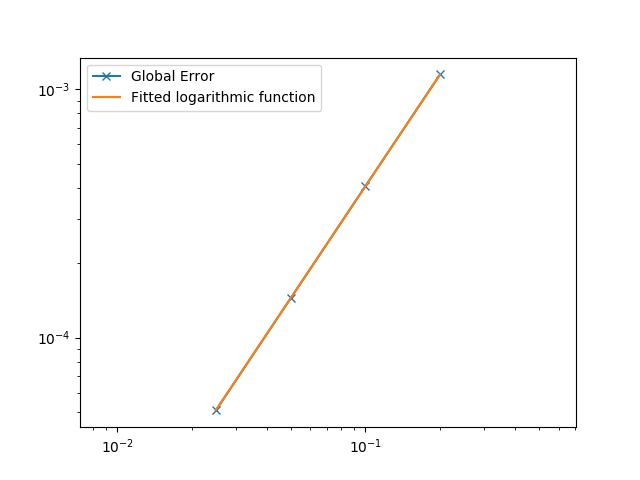
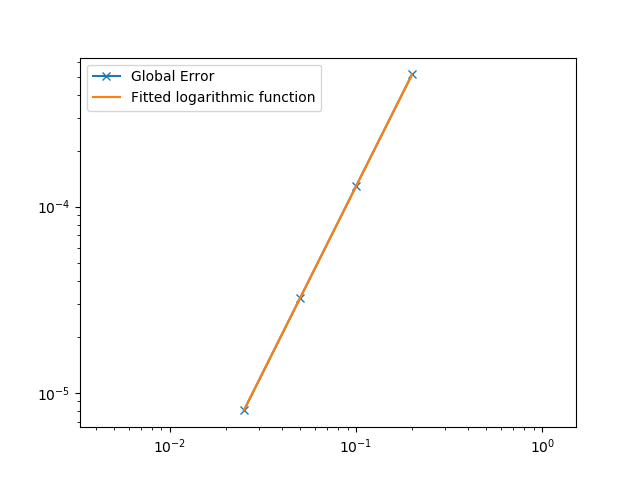
changes

diff --git a/Q1/Numerical/PDF/report.tex b/Q1/Numerical/PDF/report.tex
@@ -7,11 +7,13 @@
 \usepackage{float}
 \usepackage{graphicx}
 \usepackage{subcaption}
+\usepackage{hyperref}
+\usepackage[super]{nth}
 \usepackage[margin=0.8in]{geometry}
 
 \title{Numerical methods for Differential equations Report 1}
-\author{Malte Wegener}
-\date{September 2019}
+\author{Malte Wegener (4672194)}
+\date{October 2019}
 
 \begin{document}
 
@@ -70,10 +72,11 @@ Dividing by $\frac{\delta^2}{2}$.
 
 \begin{equation}
     0 \geq f''(x_{0})
+    \label{eq:proooof}
 \end{equation}
 
 The derivative of a 2 dimensional function can be expressed as a vector pointing in the direction of the steepest direction uphill.
-Let u be a be a sufficiently smooth function with a maximum in $ \left<x_{0}, y_{0}\right> $.$ u: \mathbb{R}^{2} \to \mathbb{R} $.
+Let u be a be a sufficiently smooth function with a maximum in $ \left<x_{0}, y_{0}\right> $. $ u: \mathbb{R}^{2} \to \mathbb{R} $.
 Let $f1(x) = u(x,y=y_{0})$ and $f2(y) = u(x=x_{0},y)$. Then
 \begin{equation}
     \frac{d}{dx}f1(x)\bigg|_{x=x_{0}} = 0 = \frac{\partial}{\partial x}f1(x)\bigg|_{x=x_{0},y=y_{0}}
@@ -102,9 +105,14 @@ D_{\mathbf{v}}\left(D_{\mathbf{v}} u\right)=\mathbf{v}\cdot \nabla(\mathbf{v} \c
 D_{\mathbf{v}}\left(D_{\mathbf{v}} u\right)=p^2\frac{\partial^2 u}{\partial x^2}+(p+q)\frac{\partial^2 u}{\partial xy} +q^2\frac{\partial^2 u}{\partial x^2}
 \end{align*}
 
-Thus $\mathbf{v}^{T} H \mathbf{v}=D_{\mathbf{v}}\left(D_{\mathbf{v}} u\right)$.
+Thus 
+\begin{equation}
+\mathbf{v}^{T} H \mathbf{v}=D_{\mathbf{v}}\left(D_{\mathbf{v}} u\right)
+\end{equation}
 
-% TODO LASt step i hate that step
+
+Every plane passing through the maximum of $u$ in a direction of $\mathbf{v}$ has a single variable function in the intersection with $u$, which also has a maximum in the maximum of $u$. Thus its second derivative is $D_{\mathbf{v}}\left(D_{\mathbf{v}} u\right)$.
+As $D_{\mathbf{v}}\left(D_{\mathbf{v}} u\right) \leq 0   \forall \mathbf{v}$, as proven in \autoref{eq:proooof}. As $\mathbf{v}^{T} H \mathbf{v}=D_{\mathbf{v}}\left(D_{\mathbf{v}} u\right)$, the Hessian of $u$ is semi negative definite.
 
 
 \newpage
@@ -138,7 +146,7 @@ Let $\mathcal{L}=-\frac{d^{2}}{d x^{2}}$. Let u be discrete on a grid with a ste
 This can be assembled in to a tridiagonal matrix $A$.
 \begin{figure}[H]
     \centering
-    \includegraphics[width=.9\linewidth]{2spy.png}
+    \includegraphics[width=.8\linewidth]{2spy.png}
     \caption{Structure of the Matrix $A$}
 \end{figure}
 As this matrix is small in size, the eigenvalues can be calculated numerically, as well as analytically. These eigenvalues can be compared to the first 9 eigenvalues of the Laplacian. It can be seen that the eigenvalues are very similar in the first eigenvalues but deviate significantly for later eigenvalues. Furthermore it can be seen that the eigenvalues are purely real.
@@ -152,6 +160,14 @@ The corresponding eigenvectors can be plotted on the on the inner points of the 
     \centering
     \includegraphics[width=.9\linewidth]{Eigenfuncs.png}
     \caption{Discrete eigenvectors (+) and continuous eigenfunctions}
+\end{figure}
+
+Plotting the \nth{10} Pair of eigenvector and eigenfunction, it can be seen that the eigenvector only samples the eigenfunction in its roots.  This pair is therefore the first one that can not be resolved on the chosen grid.
+
+\begin{figure}[H]
+	\centering
+	\includegraphics[width=.9\linewidth]{1thpair.png}
+	\caption{\nth{10} Pair of eigenvector and eigenfunction}
 \end{figure}
 
 \section{1D boundary value problem}
@@ -227,7 +243,7 @@ Solving the linear system yields the following results
         0.4 & 1.52 & 1.52 & 1.5948 & 1.5954 \\ \hline
         0.6 & 1.72 & 1.72 & 1.8081 & 1.8089 \\ \hline
         0.8 & 1.88 & 1.88 & 1.9490 & 1.9490 \\ \hline
-        L2 Error& $3.14 * 10^{-16}$ & N/A &0.00115 & N/A
+        L2h Error& $3.14 * 10^{-16}$ & N/A &0.00115 & N/A
         
     \end{tabular}
 \end{table}
@@ -245,7 +261,7 @@ Solving the linear system yields the following results
     \end{subfigure}
     \caption{Comparison of numerical and analytical solutions to the BVP}
 \end{figure}
-The domain can be refined by decreasing h. This will reduce the global error in the domain. By plotting the global error against the stepsize h, the rate of convergence can be seen. As this plot covers a high range of values, it is bettter to plot it on a double logarithmic plot, this also makes the plot appear linear. In order to understand the rate of convergence a logarithmic function of the form $f(x) = Ch^{\alpha}$. Fitting this function yields $\alpha=1.5$ and $C = 0.01278$. This indicates a rate of convergence between 1 and 2, as the Order of approximation is second order, this drop in convergence indicates the influence of the boudnary conditions.
+The domain can be refined by decreasing h. This will reduce the global error in the domain. By plotting the global error against the stepsize h, the rate of convergence can be seen. As this plot covers a high range of values, it is bettter to plot it on a double logarithmic plot, this also makes the plot appear linear. In order to understand the rate of convergence a logarithmic function of the form $f(x) = Ch^{\alpha}$. Fitting this function yields $\alpha=1.99$ and $C = 0.0127$. This confirms that the approximation is of second order.
 \begin{figure}[H]
     \centering
     \includegraphics[width=.9\linewidth]{convergence.png}
@@ -286,7 +302,7 @@ In order to derive an approximation for the negative Laplacian around $\Omega_{h
 
 With these expansion $-u''(x_{0})$ can be approximated by $\frac{1}{h^2}(-\frac{1}{3}u(x_{-1})+u(x_{0})-\frac{2}{3}u(x_{1}))$. 
 \begin{equation}
--u''(x_{0})=\frac{-\frac{1}{3} u(x_{-1}) + u(x_{0}) - \frac{2}{3} u(x_{1})}{h^2}+\mathcal{O}(h^2)
+-u''(x_{0})=\frac{-\frac{1}{3} u(x_{-1}) + u(x_{0}) - \frac{2}{3} u(x_{1})}{h^2}+\mathcal{O}(h)
 \end{equation}
 Solving the Problem on the asymetrical domain yields the following results.
 \begin{table}[H]
@@ -296,7 +312,7 @@ Solving the Problem on the asymetrical domain yields the following results.
         0.4 & 1.52 & 1.52 & 1.6013 & 1.5954 \\ \hline
         0.6 & 1.72 & 1.72 & 1.8125 & 1.8089 \\ \hline
         0.8 & 1.88 & 1.88 & 1.9508 & 1.9490 \\ \hline
-        L2 Error& $0$ & N/A &0.00708 & N/A
+        L2h Error& $0$ & N/A &0.00708 & N/A
     \end{tabular}
 \end{table}
 
@@ -312,6 +328,13 @@ Solving the Problem on the asymetrical domain yields the following results.
       \caption{Numerical and analytical solution of u2}
     \end{subfigure}
     \caption{Comparison of numerical and analytical solutions to the BVP on an asymetrical domain}
+\end{figure}
+A convergence analysis can also be performed for this asymmetrical domain. Fitting an exponential of the form $Ch^{\alpha}$ it is found that $\alpha=2.936$ and $C=0.357$. Comparing this to the symmetrical domain, it can be seen that the convergence is faster in this magnitude of h, however the global error is  approximately one magnitude bigger for big $h$.
+
+\begin{figure}[H]
+	\centering
+	\includegraphics[width=.9\linewidth]{convergenceasym.png}
+	\caption{Convergence plot on the asymetrical domain}
 \end{figure}
 
 \section{2D boundary value problem}
@@ -396,9 +419,17 @@ Then $\mathbf{b} = \frac{1}{h^2}(\mathbf{e}_{n_y,1} \otimes \mathbf{b}_S + \math
 Solving $L\mathbf{u} = \mathbf{f}+\mathbf{b}$ with $h=0.02$ yields the following solution.
 
 \begin{figure}[H]
-\centering
-\includegraphics[width=.9\linewidth]{Figure_1.png}
-
+	\begin{subfigure}{.5\textwidth}
+		\centering
+		\includegraphics[width=.9\linewidth]{source.png}
+		\subcaption{sourcefunction on the domain}
+	\end{subfigure}
+	\begin{subfigure}{.5\textwidth}
+		\centering
+		\includegraphics[width=.9\linewidth]{Figure_1.png}
+		\subcaption{solution of the BVP on the domain}
+	\end{subfigure}
+	\caption{Source and Solution of the BVP}
 \end{figure}
 
 %\end{multicols}

diff --git a/Q1/Scientific/malloc3d-nc.c b/Q1/Scientific/malloc3d-nc.c
@@ -1,0 +1,68 @@
+/* Example for Scientific Programming : how to allocate a 
+ * 3D matrix (method 2 : non-contiguous memory regions).
+ * 
+ * Kees Lemmens, May 2013, March 2018
+ */
+
+#include <stdio.h>
+#include <stdlib.h>
+
+void show(double ***array, int m, int n, int p)
+{
+   int i,j,k;
+   
+   for(i=0;i<m;i++)
+      for(j=0;j<n;j++)
+         for(k=0;k<p;k++)
+            printf("array[%d][%d][%d] = %lf\n",i,j,k,array[i][j][k]);
+}
+
+int main()
+{
+   double*** mat3;
+   int m,n,p;
+   int i,j,k;
+   
+   m=2; n=3; p=4; /* unequal dimensions should work fine as well */
+   
+   mat3 = (double***) malloc(m*sizeof(double**));
+   if (mat3 == NULL)
+    exit(1);
+   
+   for (i=0; i<m; i++)
+   {
+      mat3[i] = (double**) malloc(n*sizeof(double*));;
+      if (mat3[i] == NULL)
+          exit(1);
+      
+      for (j=0; j<n; j++)
+      {
+          mat3[i][j] = (double*) malloc(p*sizeof(double));
+          if (mat3[i][j] == NULL)
+             exit(1);
+      }
+   }
+   
+   // Fill with some data that makes checking easy (value = sum of the indexes) :
+   for(i=0;i<m;i++)
+      for(j=0;j<n;j++)
+         for(k=0;k<p;k++)
+            mat3[i][j][k] = i + 10*j + 100*k;
+   
+   show(mat3,m,n,p);
+   for (i=0; i<m; i++)
+   {  
+      for (j=0; j<n; j++)
+      {
+         free(mat3[i][j]);
+      }
+   }
+
+   for (i=0; i<m; i++)
+   {  
+      free(mat3[i]);
+   }
+   free(mat3);
+   
+   exit(0);
+}

diff --git a/Q1/Scientific/malloc3d-badfix.c b/Q1/Scientific/malloc3d-badfix.c
@@ -1,0 +1,51 @@
+//
+// Allocate 3D matrix - efficient method
+// Example as given by Niels Looye (omission in coursebook Wi4260, p. 95)
+ 
+#include <stdio.h>
+#include <stdlib.h>
+
+int main()
+{
+   double*** mat3;
+   int m,n,p;
+   int i,j,k;
+   
+   m=2; n=3; p=4;
+
+   printf("This program causes a coredump, unless you fix the error in it !\n");
+   
+   mat3 = (double***) malloc(m*sizeof(double**));
+   if (mat3 == NULL)
+      exit(1);
+   
+   mat3[0] = (double**) malloc(m*n*sizeof(double*));
+   if (mat3[0] == NULL)
+      exit(1);
+   
+   mat3[0][0] = (double*) malloc(m*n*p*sizeof(double));
+   if (mat3[0][0] == NULL)
+      exit(1);
+   
+   for (i=0; i<m; i++)
+   {
+      mat3[i] = mat3[0] + i*n;
+      for(j=0; j<n; j++)
+      {
+         mat3[i][0] = mat3[0][0] + i*n*p;
+         mat3[i][j] = mat3[i][0] + j*p; // dit gaat fout
+      }
+   }
+   
+   for(i=0;i<m;i++)
+      for(j=0;j<n;j++)
+         for(k=0;k<p;k++)
+             mat3[i][j][k] = i + 10*j + 100*k;
+   
+   for(i=0;i<m;i++)
+      for(j=0;j<n;j++)
+         for(k=0;k<p;k++)
+             printf("mat3[%d][%d][%d] = %lf\n",i,j,k,mat3[i][j][k]);
+   
+   exit(0);
+}

diff --git a/Q1/Scientific/malloc2d-2.c b/Q1/Scientific/malloc2d-2.c
@@ -1,0 +1,52 @@
+#include <stdio.h>
+#include <stdlib.h>
+
+#define DIMX 4
+#define DIMY 5
+
+/*
+ * Dynamic matrices in C with dimension 2 (or higher)
+ * 
+ * Method 2 : Here we malloc an array of pointers with size Y. After this
+ * we can malloc separate blocks of size X and assign their addresses to
+ * the pointers in our first array by using a simple loop.
+ * 
+ * Kees Lemmens; TU Delft 1996
+ */ 
+
+void show(double **array)
+{  int x,y;
+   
+   for(y=0;y<DIMY;y++)
+   {
+      for(x=0;x<DIMX;x++)
+         printf("%f ",array[y][x]);
+      printf("\n");
+   }
+}
+
+int main()
+{  
+   double **array;
+   int x,y;
+   
+   array = (double **)malloc(DIMY*sizeof(double *));
+   if(array == NULL)
+      exit(1);
+   
+   for(y=0;y<DIMY;y++)
+   {
+      array[y] = (double *)malloc(DIMX*sizeof(double));
+      if(array[y] == NULL)
+         exit(1);
+   }
+   
+   // Fill with some data that makes checking easy (value = sum of the indexes) :
+   for(y=0;y<DIMY;y++)
+      for(x=0;x<DIMX;x++)
+         array[y][x]=x+y;
+   
+   show(array);
+   free(array);
+   exit(0);
+}

diff --git a/Q1/Numerical/Report1/3.py b/Q1/Numerical/Report1/3.py
@@ -2,13 +2,14 @@ import numpy as np
 import matplotlib.pyplot as plt
 from scipy.optimize import curve_fit
 
-def l2hnorm(x):
-    return np.linalg.norm(x)/np.sqrt(x.shape[0])
+def l2hnorm(x, h):
+    return np.linalg.norm(x)*np.sqrt(h)
 
 err = []
 hs = []
-plot = True
+plot = False
 asym = True
+
 
 def make_A(n):
     L = np.diag((n-1)*[2],0)
@@ -34,7 +35,7 @@ for k in range(0,4):
     omega2 = np.linspace(0,1, 100)
     if asym:
         omega = np.delete(omega, 1)
-
+    
     A = make_A(n) if not asym else make_A_asym(n-1)
 
     L = A/(h**2)
@@ -82,10 +83,9 @@ for k in range(0,4):
         print(u2)
         print(fn2(omega))
 
-    print(l2hnorm(u1-fn1(omega)))
-    err.append(l2hnorm(u2-fn2(omega)))
+    print(l2hnorm(u1-fn1(omega), h))
+    err.append(l2hnorm(u2-fn2(omega),h))
     print(err[-1])
-    input()
 
 to_fit = lambda x,a,c: c*np.power(x,a)
 

diff --git a/Q1/Numerical/Report1/4.py b/Q1/Numerical/Report1/4.py
@@ -79,6 +79,7 @@ plt.show()
 sv = np.reshape(sourcevec(*grid), B.shape)
 solution = la.spsolve(L,sv+B)
 imshow(source(*grid)[::-1,:])
+plt.colorbar()
 plt.show()
 imshow(np.reshape(solution, [grid[0].shape[0], grid[0].shape[1]])[::-1,:])
 plt.colorbar()
